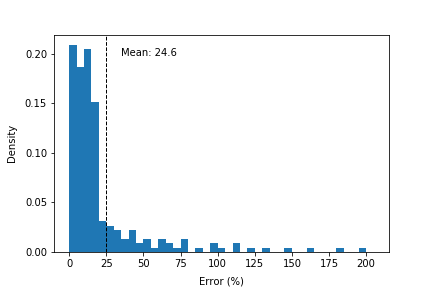
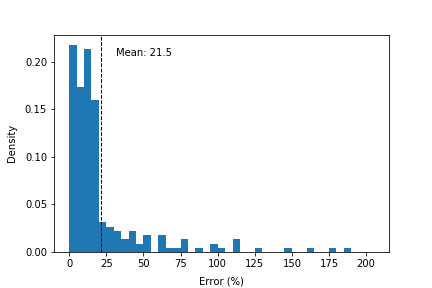
Add files via upload

diff --git a/laplace_experiment.py b/laplace_experiment.py
@@ -106,16 +106,16 @@ class Taylor(Known, Unknown):
         x_taylor_s[0] = known[0] \
                         + known[1]*dx[0] \
                         + known[2]*dx[1] \
-                        + unknown[0]*dx[0]**2/2 \
+                        + unknown[0]*dx[0]**2 \
                         + unknown[1]*dx[0]*dx[1] \
-                        + unknown[2]*dx[1]**2/2
+                        + unknown[2]*dx[1]**2
                
         x_taylor_s[1] = known[3] \
                         + known[4]*dx[0] \
                         + known[5]*dx[1] \
-                        + unknown[3]*dx[0]**2/2 \
+                        + unknown[3]*dx[0]**2 \
                         + unknown[4]*dx[0]*dx[1] \
-                        + unknown[5]*dx[1]**2/2
+                        + unknown[5]*dx[1]**2
         
         return x_taylor_s
         
@@ -136,9 +136,9 @@ class Taylor(Known, Unknown):
         s_taylor_u = known[6] \
                      + known[7]*ds[0] \
                      + known[8]*ds[1] \
-                     + unknown[6]*ds[0]**2/2 \
+                     + unknown[6]*ds[0]**2 \
                      + unknown[7]*ds[0]*ds[1] \
-                     + unknown[8]*ds[1]**2/2
+                     + unknown[8]*ds[1]**2
                      
         return s_taylor_u
     

diff --git a/laplace_theory.py b/laplace_theory.py
@@ -126,9 +126,9 @@ class TheoryValue(ProblemSettings):
             s_coeff_theory[i][0] = s[i]
             s_coeff_theory[i][1] = syp.diff(s[i], x[0])
             s_coeff_theory[i][2] = syp.diff(s[i], x[1])
-            s_coeff_theory[i][3] = syp.diff(s[i], x[0], 2)
+            s_coeff_theory[i][3] = syp.diff(s[i], x[0], 2)/2
             s_coeff_theory[i][4] = syp.diff(s[i], x[0], x[1])
-            s_coeff_theory[i][5] = syp.diff(s[i], x[1], 2)
+            s_coeff_theory[i][5] = syp.diff(s[i], x[1], 2)/2
             
         for i in range(len(s)):
             for j in range(len(s_coeff_theory[i])):
@@ -146,9 +146,9 @@ class TheoryValue(ProblemSettings):
         u_coeff_theory[0] = u
         u_coeff_theory[1] = syp.diff(u, s[0])
         u_coeff_theory[2] = syp.diff(u, s[1])
-        u_coeff_theory[3] = syp.diff(u, s[0], 2)
+        u_coeff_theory[3] = syp.diff(u, s[0], 2)/2
         u_coeff_theory[4] = syp.diff(u, s[0], s[1])
-        u_coeff_theory[5] = syp.diff(u, s[1], 2)
+        u_coeff_theory[5] = syp.diff(u, s[1], 2)/2
         
         for i in range(len(u_coeff_theory)):
             u_coeff_theory[i] = syp.lambdify(s, u_coeff_theory[i], 'numpy')
